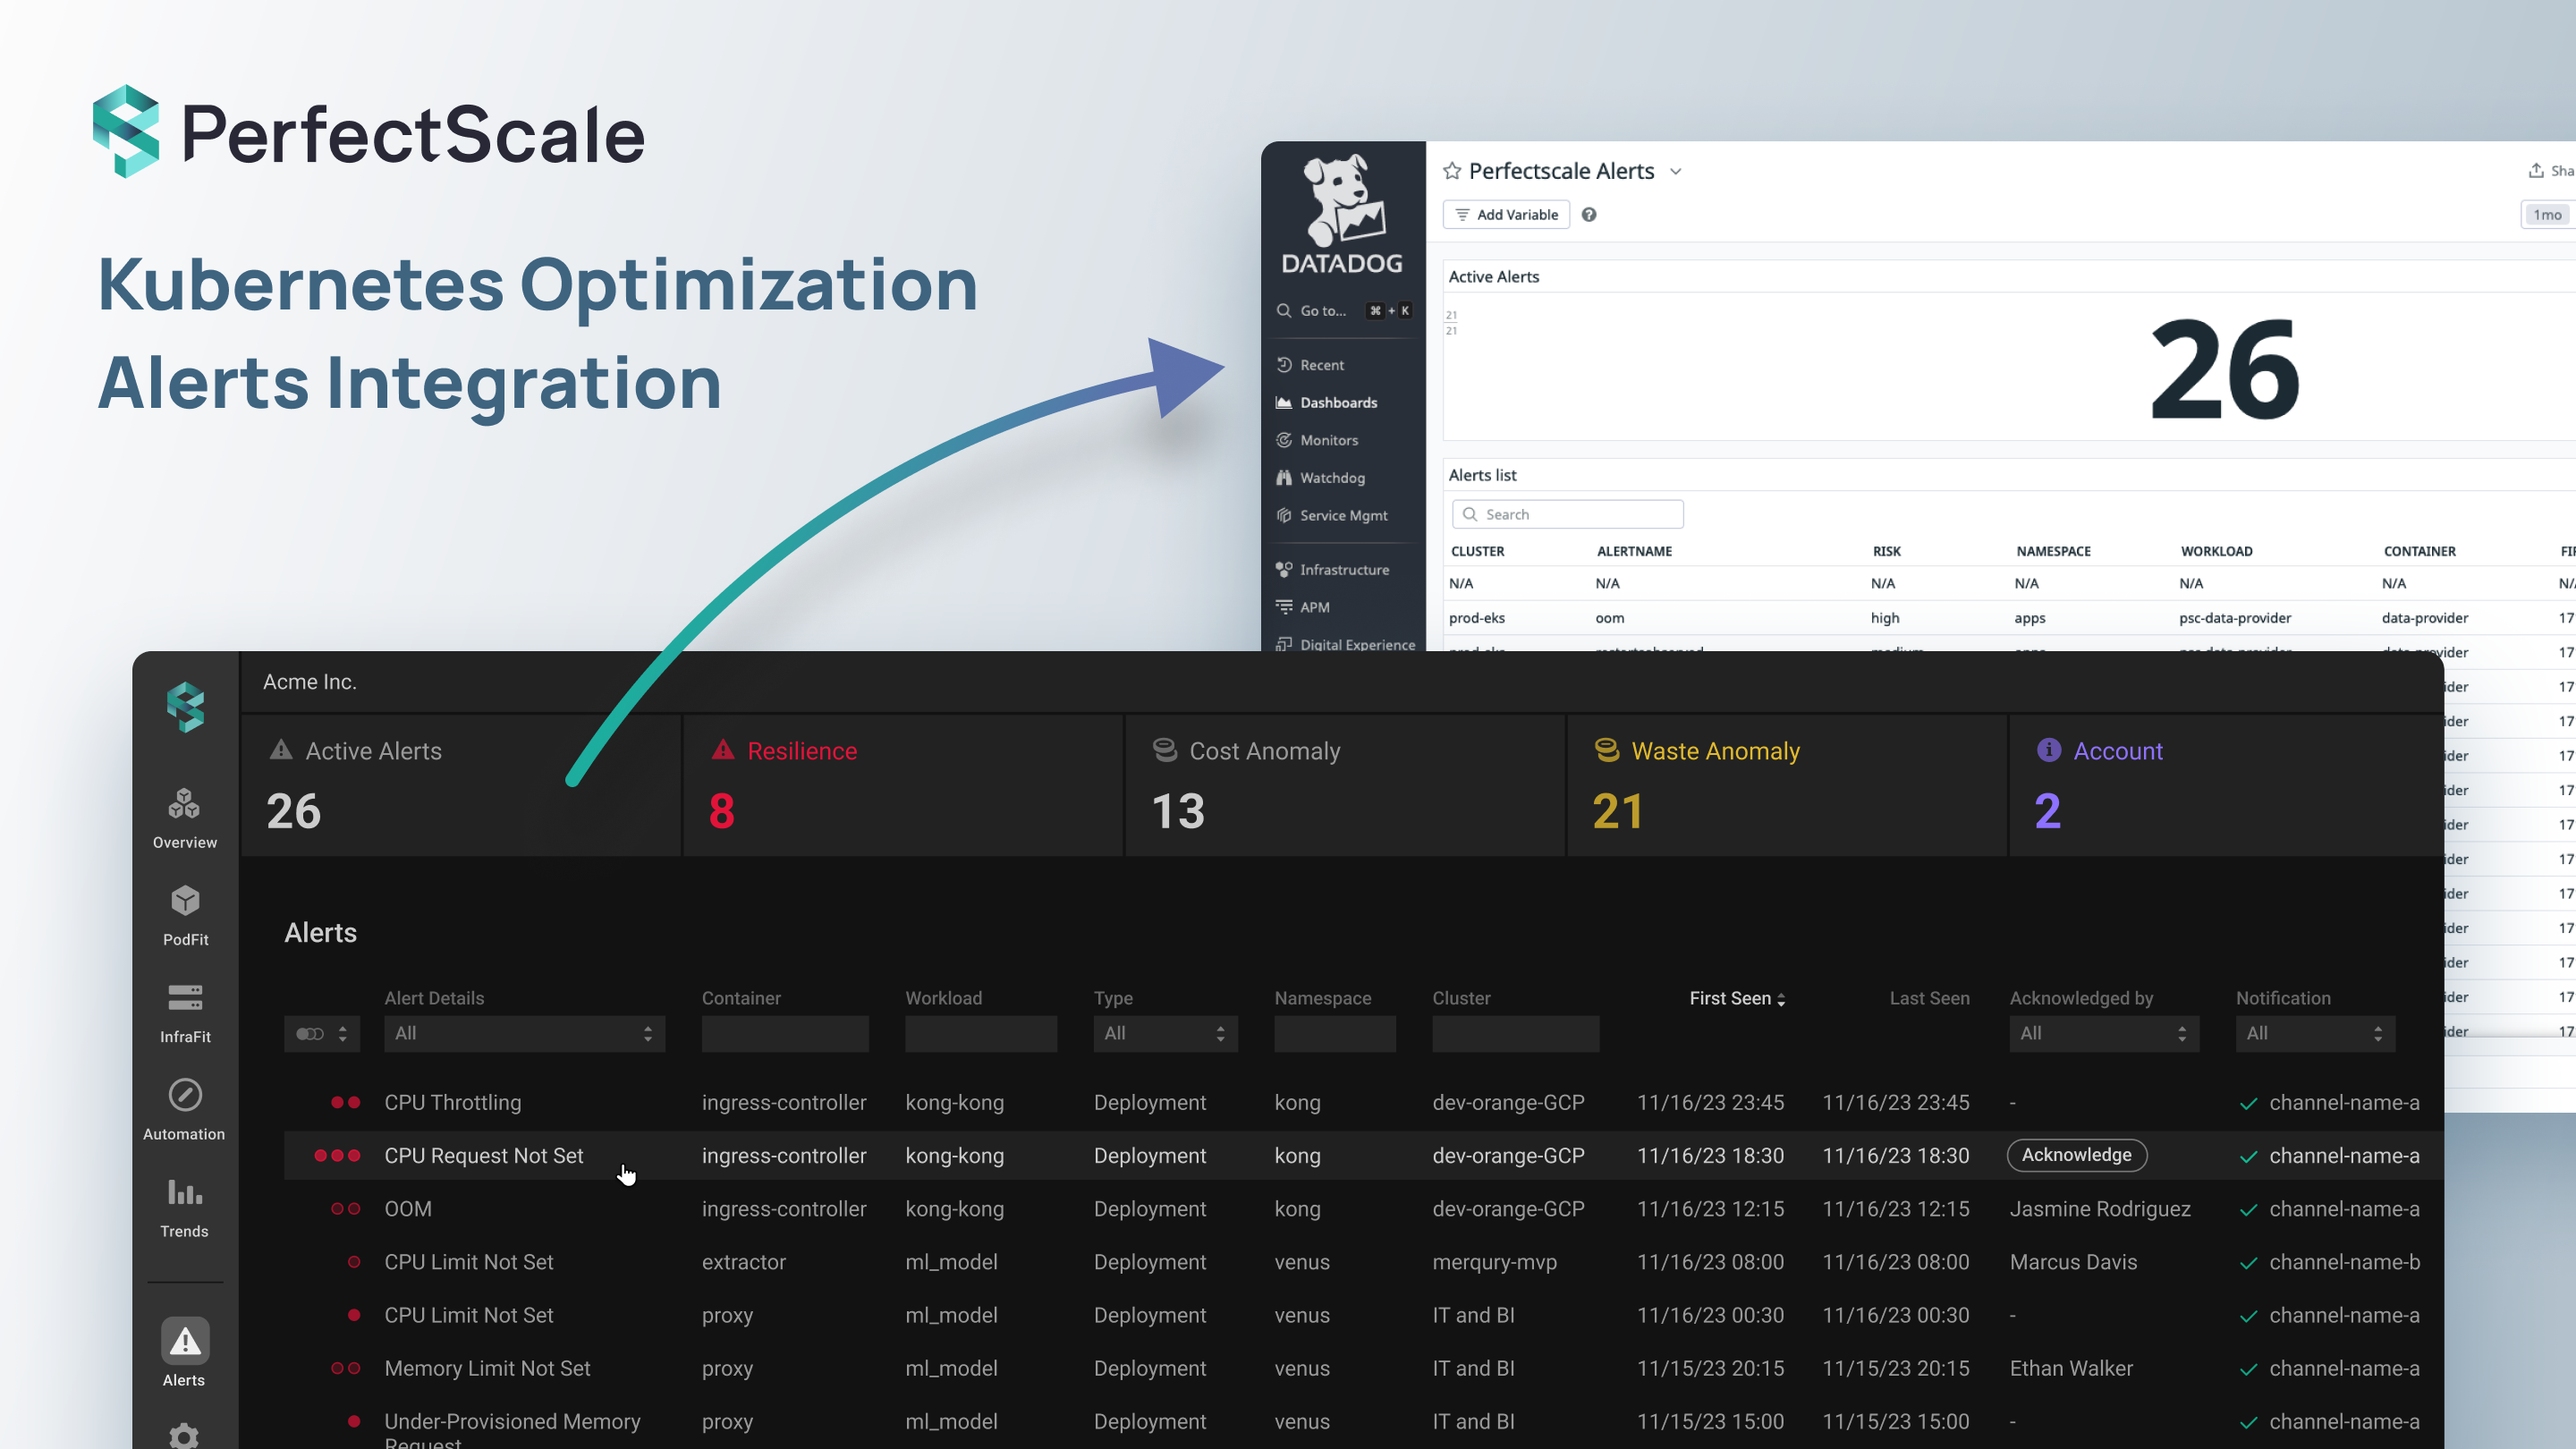
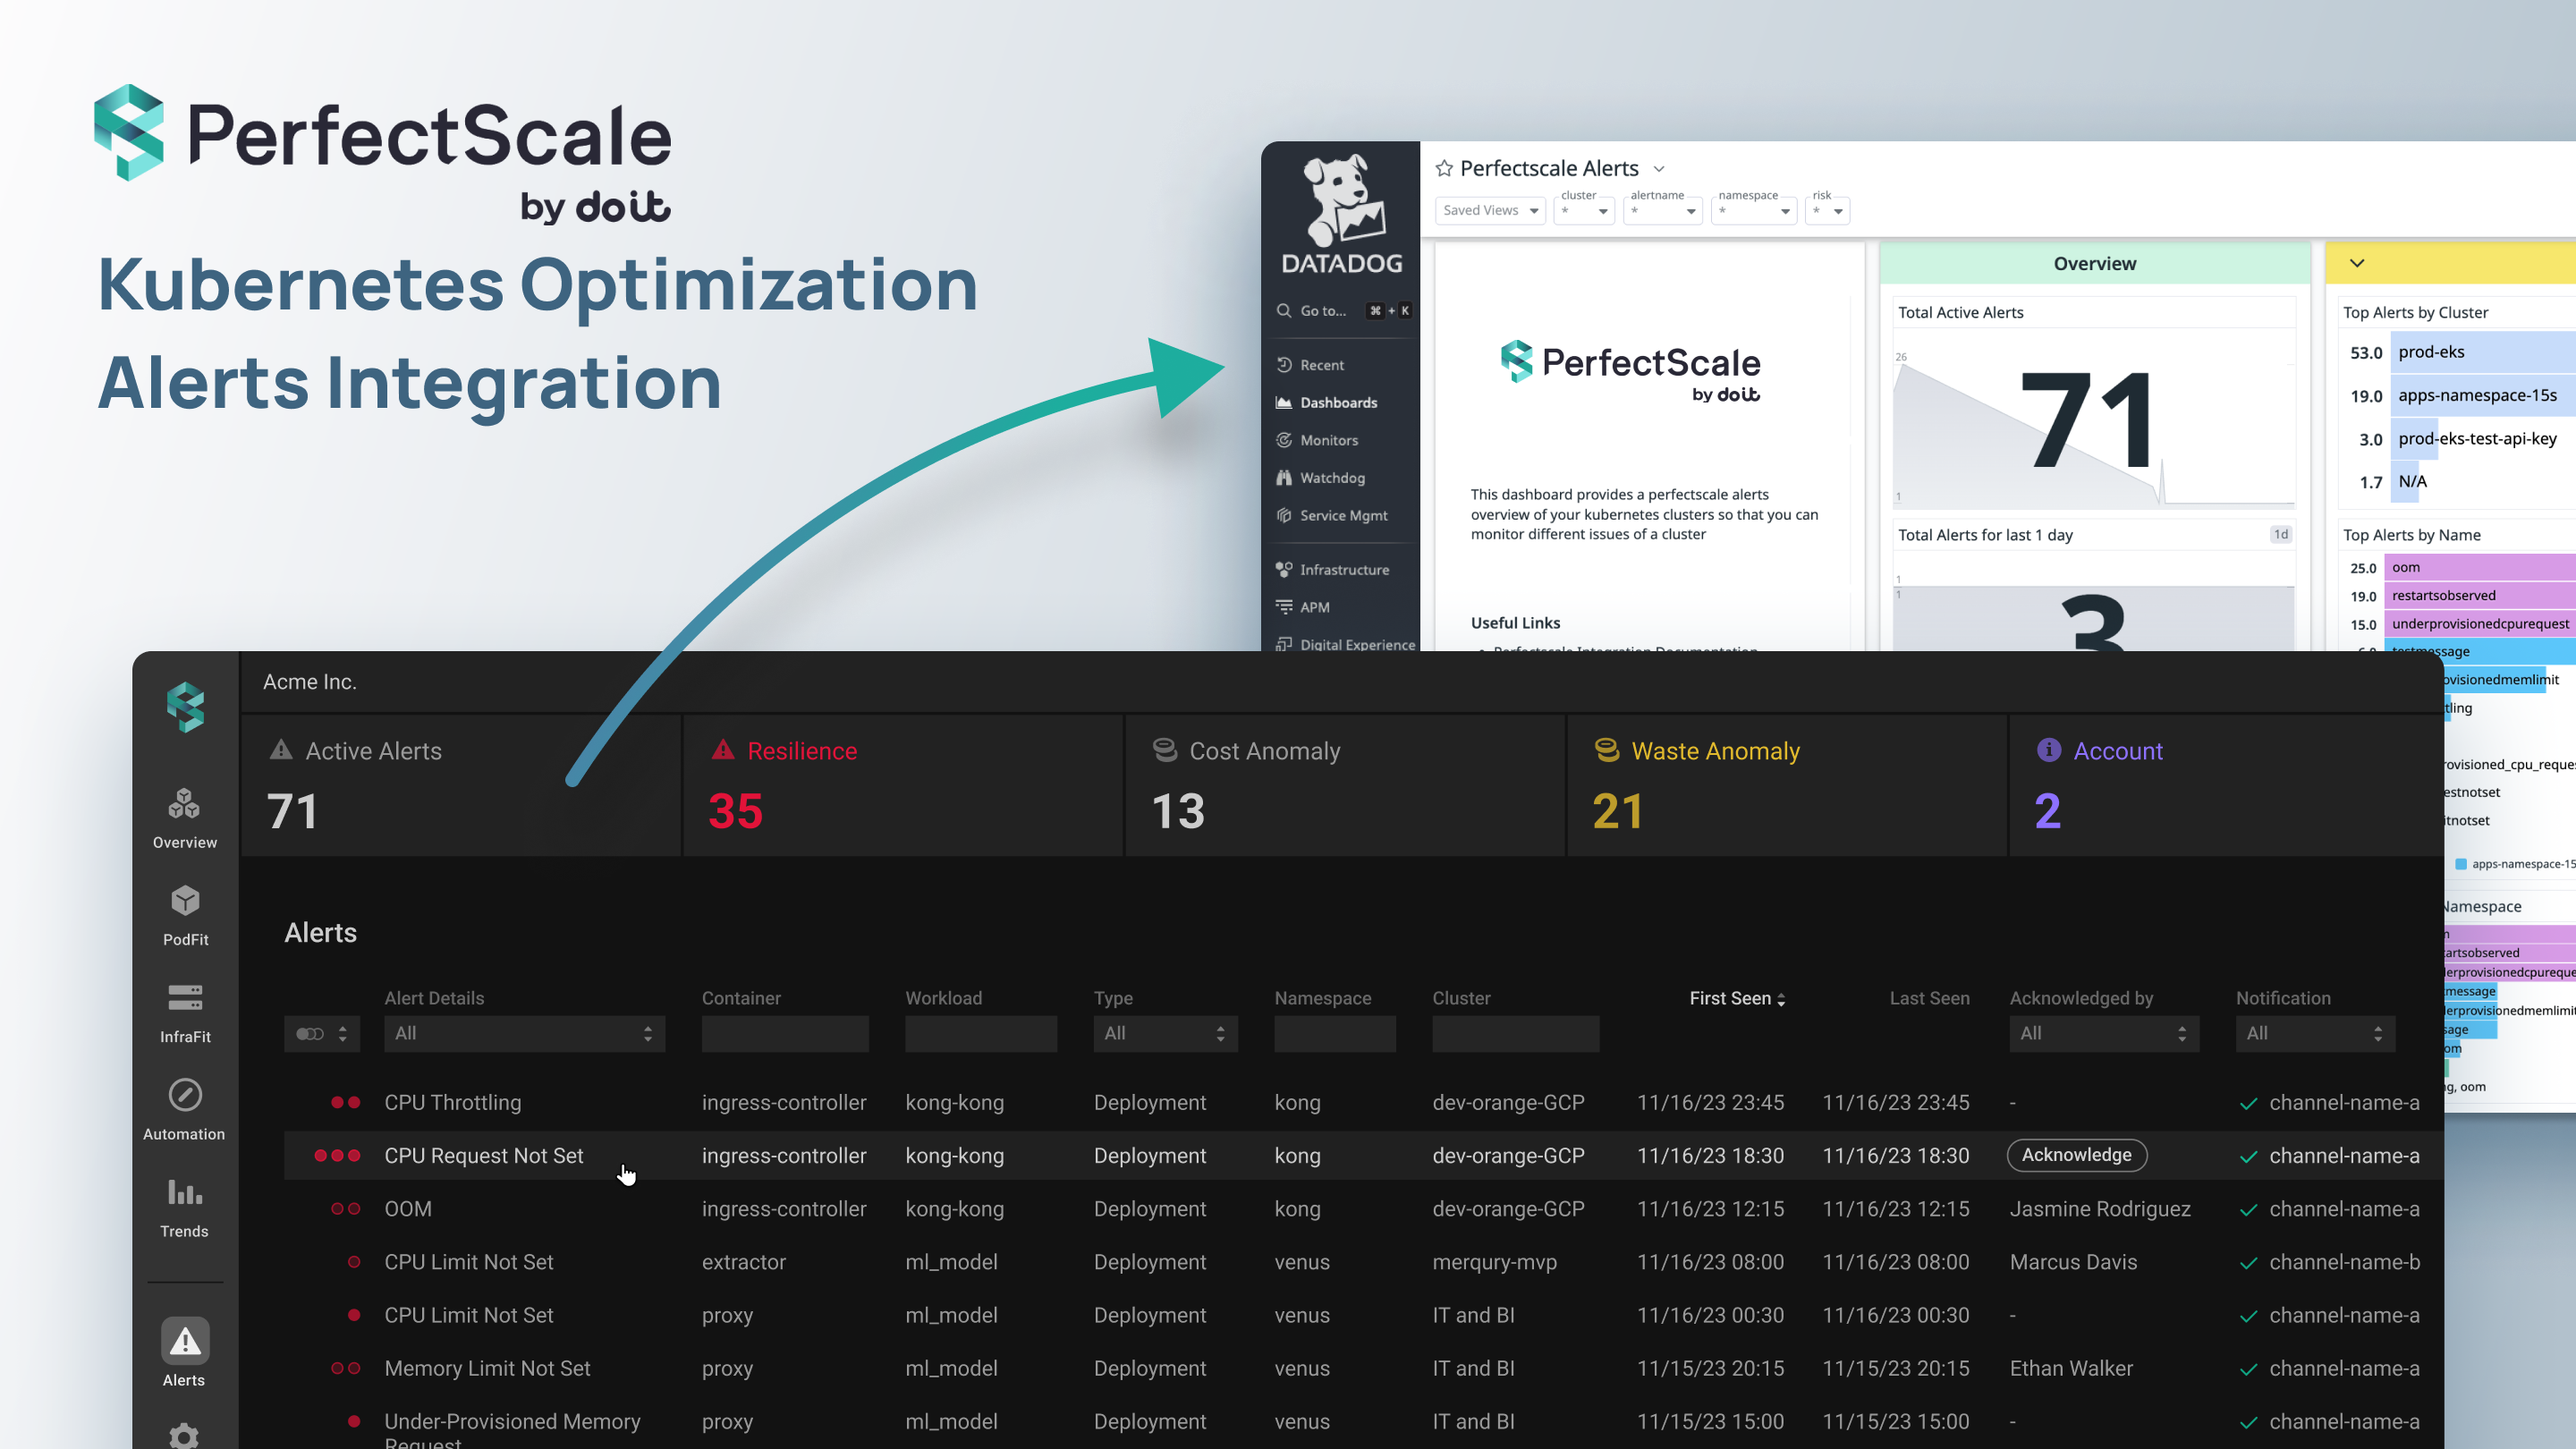
Change our company name to PerfectScale by DoiT (ECOINT-113) (#2610)
* init perfectscale tile

* add ps info

* remove validations

* change capital d

* add dashboard

* add logos

* fix field

* add source_type_name

* remove integrations

* remove redundant fields

* remove metadata

* add CODEOWNERS for perfectscale integration

* review fixes

* review fixes

* update perfectscale alerts dashboard

* review fixes 3

* review fixes 4

* review fixes

* review fixes

* new version with cluster name tag

* edit changelog

* add  medadata.csv file for perfectscale integration

* add  medadata.csv file for perfectscale integration

* add  medadata.csv file for perfectscale integration

* add source id to integrations

* add source id to integrations

* Update metadata.csv

* Update metadata.csv

* Update manifest.json

* Update metadata.csv

* Update manifest.json

* update integration

* fix app id

* removed changelog comment

* update screenhsot

---------

diff --git a/perfectscale/README.md b/perfectscale/README.md
@@ -1,32 +1,32 @@
-# Agent Check: Perfectscale
+# Agent Check: PerfectScale by DoiT
 
 ## Overview
 
 
-PerfectScale is a comprehensive cloud-agnostic solution that enables teams with continuous and autonomous Kubernetes optimization capabilities. Our main goal is to empower teams to effortlessly manage their infrastructure, make quick, data-driven decisions, and reach peak performance at the lowest possible cost.
+PerfectScale by DoiT is a comprehensive cloud-agnostic solution that enables teams with continuous and autonomous Kubernetes optimization capabilities. Our main goal is to empower teams to effortlessly manage their infrastructure, make quick, data-driven decisions, and reach peak performance at the lowest possible cost.
 
-PerfectScale monitors resiliency metrics across your Kubernetes environment and sends these metrics to Datadog through the Integration. When PerfectScale identifies under-provisioned or misconfigured workloads, it promptly pushes an alert to the Datadog dashboard detailing the issue type (such as OOM, CPU-Throttling, Eviction, and more) along with its precise location (cluster, namespace, workload, and container).
+PerfectScale by DoiT monitors resiliency metrics across your Kubernetes environment and sends these metrics to Datadog through the Integration. When PerfectScale by DoiT identifies under-provisioned or misconfigured workloads, it promptly pushes an alert to the Datadog dashboard detailing the issue type (such as OOM, CPU-Throttling, Eviction, and more) along with its precise location (cluster, namespace, workload, and container).
 
 ## Setup
 
 ### Create account
 
-If you don't have a PerfectScale account yet, sign up for a [free 30-day trial][1]. Once it is active, you can start using the PerfectScale integration.
+If you don't have a PerfectScale by DoiT account yet, sign up for a [free 30-day trial][1]. Once it is active, you can start using the PerfectScale by DoiT integration.
 
 ### Configuration
 
-1. [Sign in to][2] PerfectScale.
-2. To start using the Datadog integration, the cluster should be connected to PerfectScale. If this is not completed yet, add the cluster by following the instructions in the [official PerfectScale documentation][3].
+1. [Sign in to][2] PerfectScale by DoiT.
+2. To start using the Datadog integration, the cluster should be connected to PerfectScale by DoiT. If this is not completed yet, add the cluster by following the instructions in the [official PerfectScale documentation][3].
 ![Perfectscale Screenshot][4]
 
-3. Create an [API Key][5] in Datadog for the PerfectScale integration.
+3. Create an [API Key][5] in Datadog for the PerfectScale by DoiT integration.
 4. [Create a Datadog profile][6].
 5. Paste your API Key and select the associated [site][7].
 6. Apply the profile to the desired cluster(s).
 
 ### Uninstallation
 
-To stop using PerfectScale Datadog Integration, simply un-assign your Datadog profile from a cluster. For more information, see the [official PerfectScale documentation][6].
+To stop using PerfectScale by DoiT Datadog Integration, simply un-assign your Datadog profile from a cluster. For more information, see the [official PerfectScale documentation][6].
 
 ## Troubleshooting
 
